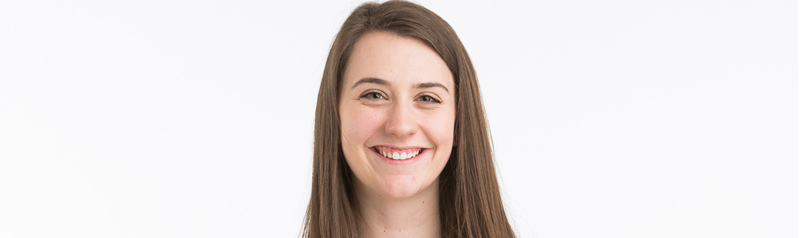
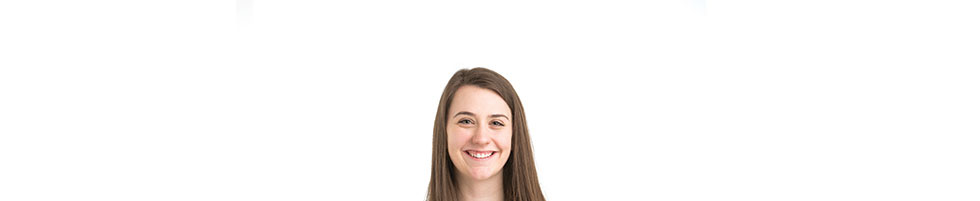
Images

Changed region(s): [[0.375, 0.0, 0.6562, 1.0]]

diff --git a/index.html b/index.html
@@ -94,14 +94,53 @@
     </nav>
 
     <header>
-      <div class="container-fluid">
-          <div class="row">
-              <div class="col-md-12 embed-responsive embed-responsive-16by9">
-                  <iframe src="slider/web/MORNINGSIDE.html" class="embed-responsive-item" width="980" marginwidth="0" height="350" marginheight="0" scrolling="no" frameborder="0"> </iframe>
+        <div class="container-fluid">
+            <div class="row" style="margin: auto;">
+              <!-- <div class="col-md-12 embed-responsive embed-responsive-16by9"> -->
+                  <!-- <iframe src="slider/web/MORNINGSIDE.html" class="embed-responsive-item" width="980" marginwidth="0" height="350" marginheight="0" scrolling="no" frameborder="0"> </iframe> -->
+              <!-- </div> -->
+              <div id="slider-top" class="carousel slide" data-ride="carousel">
+
+                  <!-- Wrapper for slides -->
+                  <div class="carousel-inner">
+                      <div class="item active">
+                          <img src="slider/web/images/AAFS_1.jpg" alt="...">
+                      </div>
+                  </div>
+              </div>
+              <div id="slider-middle" class="carousel slide" data-ride="carousel">
+
+                  <!-- Wrapper for slides -->
+                  <div class="carousel-inner">
+                      <div class="item active">
+                          <img src="slider/web/images/AAFS_2.jpg" alt="...">
+                      </div>
+                      <div class="item">
+                          <img src="slider/web/images/TEXT_1.jpg" alt="...">
+                      </div>
+                      <div class="item">
+                          <img src="slider/web/images/TEXT_2.jpg" alt="...">
+                      </div>
+                      <div class="item">
+                          <img src="slider/web/images/TEXT_3.jpg" alt="...">
+                      </div>
+                      <div class="item">
+                          <img src="slider/web/images/TEXT_4.jpg" alt="...">
+                      </div>
+                  </div>
+              </div>
+              <div id="slider-bottom" class="carousel slide" data-ride="carousel">
+
+                  <!-- Wrapper for slides -->
+                  <div class="carousel-inner">
+                      <div class="item active">
+                          <img src="slider/web/images/AAFS_3.jpg" alt="...">
+                      </div>
+                  </div>
               </div>
           </div>
       </div>
-    </header>
+  </header>
 
     <!-- Services Section -->
     <section id="mentorship">
